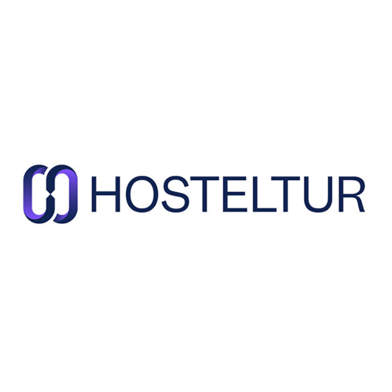
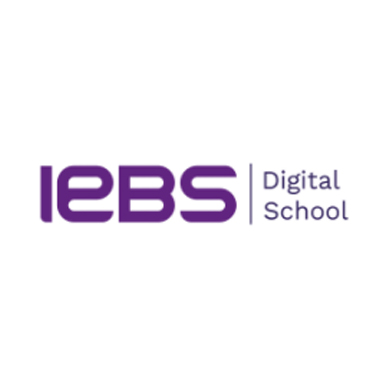
sdfsdf

Changed region(s): [[0.0612, 0.398, 0.949, 0.5816]]

diff --git a/proximos_eventos.html b/proximos_eventos.html
@@ -663,7 +663,7 @@
 <div class="container first">
     <ol class="breadcrumb">
         <li><a href="https://www.promperu.gob.pe/TurismoIN/sitio/Boletines?from=breadcrumb"><span style="font-family: 'Open Sans', sans-serif;">Boletines</span></a></li>
-        <li><a href="index.html"><span style="font-family: 'Open Sans', sans-serif;">Boletín N.° 88 | Noviembre 2021</span></a></li>
+        <li><a href="index.html"><span style="font-family: 'Open Sans', sans-serif;">Boletín N.° 89 | Diciembre 2021</span></a></li>
         <li class="active"><span style="font-family: 'Open Sans', sans-serif;">Próximos <em>webinars</em></span></li>
     </ol>
  <!--comienza diseño-->
@@ -700,41 +700,41 @@
     <td style="display: inline-block; vertical-align: top; max-width: 310px; margin:0; padding:15px;"><hr>
       <table width="100%" cellpadding="0" cellspacing="0" border="0" margin="0" align="center" style="border-collapse: collapse; mso-table-lspace:0pt; mso-table-rspace:0pt; max-width: 310px; background-color:#FFF; margin:0;">
         <tr>
-          <td style="padding: 5px; font-size: 18px;height:70px; text-align:left" colspan="2"><p><strong>Turismo azul, concepto y oportunidades</strong></p>
+          <td style="padding: 5px; font-size: 18px;height:70px; text-align:left" colspan="2"><p><strong>Gestión financiera para principiantes</strong></p>
           </tr>
         <tr>
-          <td style="padding:5px; float:left" colspan="2"><a href="https://bit.ly/3l5hdIR" target="_self"><img style="width:139px" src="assets/img/mas.png" alt="" /></a></td>
+          <td style="padding:5px; float:left" colspan="2"><a href="https://bit.ly/3FDF2j9" target="_self"><img style="width:139px" src="assets/img/mas.png" alt="" /></a></td>
         </tr>
         <tr>
           <td width="13%" rowspan="3" style="padding:5px;"><img src="assets/img/ev2.jpg" style="width:100px" /></td>
-          <td width="87%" style="padding: 5px; color: #0079c1; font-weight: bold; text-align:left;  font-size:12px"><img src="assets/img/baseline-calendar_today-24px.png" alt="" style="width:20px;float:left;  font-size:12px"/>&nbsp;30 de noviembre del 2021</td>
+          <td width="87%" style="padding: 5px; color: #0079c1; font-weight: bold; text-align:left;  font-size:12px"><img src="assets/img/baseline-calendar_today-24px.png" alt="" style="width:20px;float:left;  font-size:12px"/>&nbsp;13 de enero del 2022</td>
         </tr>
         <tr>
-          <td style="padding:5px; text-align:left; font-size:12px"><b>Hosteltur (España)</b></td>
+          <td style="padding:5px; text-align:left; font-size:12px"><b>IEBS Digital School (España)</b></td>
         </tr>
         <tr></tr>
         <tr>
-          <td style="padding:5px;" colspan="2"><p>Inscríbete a este seminario virtual y descubre qué es el turismo azul, cómo es que impacta al sector y qué oportunidades ofrece para los prestadores de servicios turísticos.</p></td>
+          <td style="padding:5px;" colspan="2"><p>Descubre cuáles son los pasos a seguir para elaborar un plan financiero efectivo para tu emprendimiento, así como a tomar decisiones estratégicas a partir de tus ingresos, gastos y rentabilidad.</p></td>
         </tr>
       </table></td>
     <td style="display: inline-block; vertical-align: top; max-width: 310px; margin:0; padding:15px;"><hr>
       <table width="100%" cellpadding="0" cellspacing="0" border="0" margin="0" align="center" style="border-collapse: collapse; mso-table-lspace:0pt; mso-table-rspace:0pt; max-width: 310px; background-color:#FFF; margin:0;">
         <tr>
-          <td style="padding: 5px; font-size: 18px;height:70px; text-align:left" colspan="2"><p><strong>Conversatorio: estrategias de reactivación del turismo</strong></p>
+          <td style="padding: 5px; font-size: 18px;height:70px; text-align:left" colspan="2"><p><strong>Feria Internacional del Turismo FITUR 2022</strong></p>
           </tr>
         <tr>
-          <td style="padding:5px; float:left" colspan="2"><a href="https://bit.ly/3FL4nr9 " target="_self"><img style="width:139px" src="assets/img/mas.png" alt="" /></a></td>
+          <td style="padding:5px; float:left" colspan="2"><a href="https://bit.ly/3eEE8Xy " target="_self"><img style="width:139px" src="assets/img/mas.png" alt="" /></a></td>
         </tr>
         <tr>
           <td width="13%" rowspan="3" style="padding:5px;"><img src="assets/img/ev3.jpg" style="width:100px" /></td>
-          <td width="87%" style="padding: 5px; color: #0079c1; font-weight: bold; text-align:left;  font-size:12px"><img src="assets/img/baseline-calendar_today-24px.png" alt="" style="width:20px;float:left;  font-size:12px"/>&nbsp;30 de noviembre del 2021</td>
+          <td width="87%" style="padding: 5px; color: #0079c1; font-weight: bold; text-align:left;  font-size:12px"><img src="assets/img/baseline-calendar_today-24px.png" alt="" style="width:20px;float:left;  font-size:12px"/>&nbsp;19-23 de enero del 2022</td>
         </tr>
         <tr>
-          <td style="padding:5px; text-align:left; font-size:12px"><b>CoCreamos (Latinoamérica)</b></td>
+          <td style="padding:5px; text-align:left; font-size:12px"><b>FITUR (España)</b></td>
         </tr>
         <tr></tr>
         <tr>
-          <td style="padding:5px;" colspan="2"><p>Súmate a este evento en el que un panel de expertos internacionales intercambiará experiencias, ideas y diversas estrategias para afrontar el desafío de reactivar el turismo. </p></td>
+          <td style="padding:5px;" colspan="2"><p>Participa en este evento, un punto de encuentro global para los profesionales del turismo y la feria líder para los mercados receptivos y emisores de Iberoamérica.</p></td>
         </tr>
       </table></td>
   </tr>
@@ -746,68 +746,30 @@
     <td style="display: inline-block; vertical-align: top; max-width: 310px; margin:0; padding:15px;"><hr>
       <table width="100%" cellpadding="0" cellspacing="0" border="0" margin="0" align="center" style="border-collapse: collapse; mso-table-lspace:0pt; mso-table-rspace:0pt; max-width: 310px; background-color:#FFF; margin:0;">
         <tr>
-          <td style="padding: 5px; font-size: 18px;height:70px; text-align:left" colspan="2"><p><strong>La estrategia en la gestión de los intangibles ¿por qué es importante?</strong></p>
+          <td style="padding: 5px; font-size: 18px;height:70px; text-align:left" colspan="2"><p><strong>Skift Megatrends 2022</strong></p>
           </tr>
         <tr>
-          <td style="padding:5px; float:left" colspan="2"><a href="https://bit.ly/3xixQFV" target="_self"><img style="width:139px" src="assets/img/mas.png" alt="" /></a></td>
+          <td style="padding:5px; float:left" colspan="2"><a href="https://bit.ly/3JtR4Op" target="_self"><img style="width:139px" src="assets/img/mas.png" alt="" /></a></td>
         </tr>
         <tr>
           <td width="13%" rowspan="3" style="padding:5px;"><img src="assets/img/ev4.jpg" style="width:100px" /></td>
-          <td width="87%" style="padding: 5px; color: #0079c1; font-weight: bold; text-align:left;  font-size:12px"><img src="assets/img/baseline-calendar_today-24px.png" alt="" style="width:20px;float:left;  font-size:12px"/>&nbsp;30 de noviembre del 2021</td>
+          <td width="87%" style="padding: 5px; color: #0079c1; font-weight: bold; text-align:left;  font-size:12px"><img src="assets/img/baseline-calendar_today-24px.png" alt="" style="width:20px;float:left;  font-size:12px"/>&nbsp;19 de enero del 2022</td>
         </tr>
         <tr>
-          <td style="padding:5px; text-align:left; font-size:12px"><b>Integra (España)</b></td>
-        </tr>
-        <tr></tr>
-        <tr>
-          <td style="padding:5px;" colspan="2"><p>Inscríbete y conoce la importancia de  la correcta gestión de la propiedad industrial e intelectual en las empresas,  tanto en el entorno <em>online</em> como <em>offline.</em> Además, descubre cómo  resguardar y poner en valor la creatividad e innovación de tus servicios.</p></td>
-        </tr>
-      </table></td>
-    <td style="display: inline-block; vertical-align: top; max-width: 310px; margin:0; padding:15px;"><hr>
-      <table width="100%" cellpadding="0" cellspacing="0" border="0" margin="0" align="center" style="border-collapse: collapse; mso-table-lspace:0pt; mso-table-rspace:0pt; max-width: 310px; background-color:#FFF; margin:0;">
-        <tr>
-          <td style="padding: 5px; font-size: 18px;height:70px; text-align:left" colspan="2"><p><strong>¿Cómo puede el turismo contribuir a una sociedad más accesible?</strong></p>
-          </tr>
-        <tr>
-          <td style="padding:5px; float:left" colspan="2"><a href="https://bit.ly/3xegxWc " target="_self"><img style="width:139px" src="assets/img/mas.png" alt="" /></a></td>
-        </tr>
-        <tr>
-          <td width="13%" rowspan="3" style="padding:5px;"><img src="assets/img/ev5.jpg" style="width:100px" /></td>
-          <td width="87%" style="padding: 5px; color: #0079c1; font-weight: bold; text-align:left;  font-size:12px"><img src="assets/img/baseline-calendar_today-24px.png" alt="" style="width:20px;float:left;  font-size:12px"/>&nbsp;3 de diciembre del 2021</td>
-        </tr>
-        <tr>
-          <td style="padding:5px; text-align:left; font-size:12px"><b>Ideas for Change (Barcelona)</b></td>
+          <td style="padding:5px; text-align:left; font-size:12px"><b>Skift (Estados Unidos)</b></td>
         </tr>
         <tr></tr>
         <tr>
-          <td style="padding:5px;" colspan="2"><p>Descubre cómo los servicios y la oferta turística pueden adaptarse para fortalecer la accesibilidad, desde la búsqueda de información previa al viaje hasta las actividades en los destinos.  </p></td>
+          <td style="padding:5px;" colspan="2"><p>Regístrate y descubre cuáles serán las tendencias que, según la investigadora Skift, guiarán la recuperación del sector durante el 2022.</p></td>
         </tr>
       </table></td>
+    <td style="display: inline-block; vertical-align: top; max-width: 310px; margin:0; padding:15px;">&nbsp;</td>
   </tr>
   
   
   
   <tr>
-    <td style="display: inline-block; vertical-align: top; max-width: 310px; margin:0; padding:15px;"><hr>
-      <table width="100%" cellpadding="0" cellspacing="0" border="0" margin="0" align="center" style="border-collapse: collapse; mso-table-lspace:0pt; mso-table-rspace:0pt; max-width: 310px; background-color:#FFF; margin:0;">
-        <tr>
-          <td style="padding: 5px; font-size: 18px;height:70px; text-align:left" colspan="2"><p><strong>Estrategias de ventas para vender más en pospandemia</strong></p>
-          </tr>
-        <tr>
-          <td style="padding:5px; float:left" colspan="2"><a href="https://bit.ly/3CFjNew " target="_self"><img style="width:139px" src="assets/img/mas.png" alt="" /></a></td>
-        </tr>
-        <tr>
-          <td width="13%" rowspan="3" style="padding:5px;"><img src="assets/img/ev6.jpg" style="width:100px" /></td>
-          <td width="87%" style="padding: 5px; color: #0079c1; font-weight: bold; text-align:left;  font-size:12px"><img src="assets/img/baseline-calendar_today-24px.png" alt="" style="width:20px;float:left;  font-size:12px"/>&nbsp;9 de diciembre del 2021</td>
-        </tr>
-        <tr>
-          <td style="padding:5px; text-align:left; font-size:12px"><b>InterConsulting Latam (Colombia)</b></td>
-        </tr>
-        <tr></tr>
-        <tr>
-          <td style="padding:5px;" colspan="2"><p>Explora ideas, tácticas y estrategias para fortalecer tus habilidades de venta, elegir qué soluciones tecnológicas aportan más a tu objetivo, mejorar tu innovación y creatividad, y mucho más.</p></td>
-        </tr>
-      </table></td>
+    <td style="display: inline-block; vertical-align: top; max-width: 310px; margin:0; padding:15px;">&nbsp;</td>
     <td style="display: inline-block; vertical-align: top; max-width: 310px; margin:0; padding:15px;"></td>
   </tr>
   
@@ -872,8 +834,8 @@
                             <div class="sidebar-title-bar sidebar-title-bar-1"></div>
                         </div>
                         <div class="sidebar-element">
-                                <a href="0_7_predicciones_de_viaje_para_el_2022.html"><img src="assets/img/0.jpg" class="yt-player-sidebar"></a>
-                                <a href="0_7_predicciones_de_viaje_para_el_2022.html"><div class="sidebar-element-text-video" style="font-size: 13px !important;">7 predicciones de viaje para el 2022</div></a>
+                                <a href="0_7_predicciones_de_viaje_para_el_2022.html"><img src="https://www.promperu.gob.pe/turismoin/Boletines/2021/mar/assets/img/0.jpg" class="yt-player-sidebar"></a>
+                                <a href="0_7_predicciones_de_viaje_para_el_2022.html"><div class="sidebar-element-text-video" style="font-size: 13px !important;">Conociendo a las potenciales vacacionistas peruanas</div></a>
                             </div><br>&nbsp;
                         <div class="sidebar-arrow-div">&nbsp; </div>
                     </div>
@@ -889,8 +851,8 @@
 
 
                         <div class="sidebar-article-div">
-                                <a href="2_los_viajes_con_mascotas_una_demanda_en_aumento.html"><img src="assets/img/int2.jpg" class="sidebar-article-img" ></a>
-                                <a href="2_los_viajes_con_mascotas_una_demanda_en_aumento.html" class="sidebar-article-text" style="font-size: 13px !important;">Los viajes con mascotas, una demanda en aumento</a>
+                                <a href="2_los_viajes_con_mascotas_una_demanda_en_aumento.html"><img src="https://www.promperu.gob.pe/turismoin/Boletines/2021/ago/assets/img/int2.jpg" class="sidebar-article-img" ></a>
+                                <a href="2_los_viajes_con_mascotas_una_demanda_en_aumento.html" class="sidebar-article-text" style="font-size: 13px !important;">El impacto de las vacunas en los viajes por vacaciones</a>
                                 <div class="sidebar-arrow-div">&nbsp;</div>
                             </div> 
                             
@@ -903,8 +865,8 @@
                             <div class="sidebar-title-bar sidebar-title-bar-3"></div>
                         </div>
                         <div class="sidebar-element">
-                            <a href="1_4_tendencias_clave_en_el_turismo_de_experiencia.html"><img src="assets/img/int1.jpg" class="yt-player-sidebar"></a>
-                          <a href="1_4_tendencias_clave_en_el_turismo_de_experiencia.html"><div class="sidebar-element-text-video" style="font-size: 13px !important;">4 tendencias clave en el turismo de experiencia </div></a>
+                            <a href="1_4_tendencias_clave_en_el_turismo_de_experiencia.html"><img src="https://www.promperu.gob.pe/turismoin/Boletines/2021/mar/assets/img/int1.jpg" class="yt-player-sidebar"></a>
+                          <a href="1_4_tendencias_clave_en_el_turismo_de_experiencia.html"><div class="sidebar-element-text-video" style="font-size: 13px !important;">Consejos para impulsar tu negocio turístico en Instagram</div></a>
                         </div>
                         
                          

diff --git a/index.html b/index.html
@@ -1005,38 +1005,38 @@
                 <tr><td colspan="5"></td></tr>
   <tr>
     <td rowspan="5" width="6%">&nbsp;</td>
-    <td width="14%"><div align="center"><span style="font-size: 42px; color: #084182; font-family: Bree-Peru-Bold; text-align:center; line-height:18px"><b>30</b><br>
-      <span style="font-size: 14px;">de noviembre</span>
+    <td width="14%"><div align="center"><span style="font-size: 42px; color: #084182; font-family: Bree-Peru-Bold; text-align:center; line-height:18px"><b>13</b><br>
+      <span style="font-size: 14px;">de enero</span>
     </span></div></td>
     <td rowspan="5" width="3%">&nbsp;</td>
-    <td width="71%"><p style="font-size: 14px; color: #084182; font-family: Bree-Peru-Lt; text-align:left; line-height:18px"><b>Turismo azul, concepto y oportunidades
+    <td width="71%"><p style="font-size: 14px; color: #084182; font-family: Bree-Peru-Lt; text-align:left; line-height:18px"><b>Gestión financiera para principiantes
 </b><br>
-        Hosteltur (España)</p>
-      <p style="font-size: 14px; color: #084182; font-family: Bree-Peru-Lt; text-align:left; line-height:18px"><strong style="color:#0079c1; text-decoration:none;"><a href="https://bit.ly/3l5hdIR">INSCRIPCIÓN</a></strong></p></td>
+        IEBS Digital School (España)</p>
+      <p style="font-size: 14px; color: #084182; font-family: Bree-Peru-Lt; text-align:left; line-height:18px"><strong style="color:#0079c1; text-decoration:none;"><a href="https://bit.ly/3FDF2j9">INSCRIPCIÓN</a></strong></p></td>
     <td rowspan="5" width="6%">&nbsp;</td>
   </tr>
   <tr>
     <td>&nbsp;</td><td><hr></td>
     </tr>
   <tr>
-    <td><div align="center"><span style="font-size: 42px; color: #084182; font-family: Bree-Peru-Bold; text-align:center; line-height:18px"><b>30</b><br>
-      <span style="font-size: 14px;">de noviembre</span>
-    </span></div></td><td><p style="font-size: 14px; color: #084182; font-family: Bree-Peru-Lt; text-align:left; line-height:18px"><b>Conversatorio: estrategias de reactivación del turismo</b><br>
-        CoCreamos (Latinoamérica)
+    <td><div align="center"><span style="font-size: 28px; color: #084182; font-family: Bree-Peru-Bold; text-align:center; line-height:18px"><b>19-23</b><br>
+      <span style="font-size: 14px;">de enero</span>
+    </span></div></td><td><p style="font-size: 14px; color: #084182; font-family: Bree-Peru-Lt; text-align:left; line-height:18px"><b>Feria Internacional del Turismo FITUR 2022</b><br>
+        FITUR (España)
 </p>
-      <p style="font-size: 14px; color: #084182; font-family: Bree-Peru-Lt; text-align:left; line-height:18px"><strong style="color:#0079c1; text-decoration:none;"><a href="https://bit.ly/3FL4nr9">INSCRIPCIÓN</a></strong></p></td>
+      <p style="font-size: 14px; color: #084182; font-family: Bree-Peru-Lt; text-align:left; line-height:18px"><strong style="color:#0079c1; text-decoration:none;"><a href="https://bit.ly/3eEE8Xy ">INSCRIPCIÓN</a></strong></p></td>
     </tr>
   <tr>
     <td>&nbsp;</td><td><hr></td>
     </tr>
     <tr>
-   <td><div align="center"><span style="font-size: 42px; color: #084182; font-family: Bree-Peru-Bold; text-align:center; line-height:18px"><b>30</b><br>
-      <span style="font-size: 14px;">de noviembre</span>
-    </span></div></td><td><p style="font-size: 14px; color: #084182; font-family: Bree-Peru-Lt; text-align:left; line-height:18px"><b>La estrategia en la gestión de los intangibles ¿por qué es importante?</b><br>
-        Integra (España)
+   <td><div align="center"><span style="font-size: 42px; color: #084182; font-family: Bree-Peru-Bold; text-align:center; line-height:18px"><b>19</b><br>
+      <span style="font-size: 14px;">de enero</span>
+    </span></div></td><td><p style="font-size: 14px; color: #084182; font-family: Bree-Peru-Lt; text-align:left; line-height:18px"><b>Skift Megatrends 2022</b><br>
+        Skift (Estados Unidos)
 
 </p>
-      <p style="font-size: 14px; color: #084182; font-family: Bree-Peru-Lt; text-align:left; line-height:18px"><strong style="color:#0079c1; text-decoration:none;"><a href="https://bit.ly/3xixQFV">INSCRIPCIÓN</a></strong></p></td>
+      <p style="font-size: 14px; color: #084182; font-family: Bree-Peru-Lt; text-align:left; line-height:18px"><strong style="color:#0079c1; text-decoration:none;"><a href="https://bit.ly/3JtR4Op">INSCRIPCIÓN</a></strong></p></td>
     </tr>
    <tr><td colspan="5"></td></tr>
 </table>
